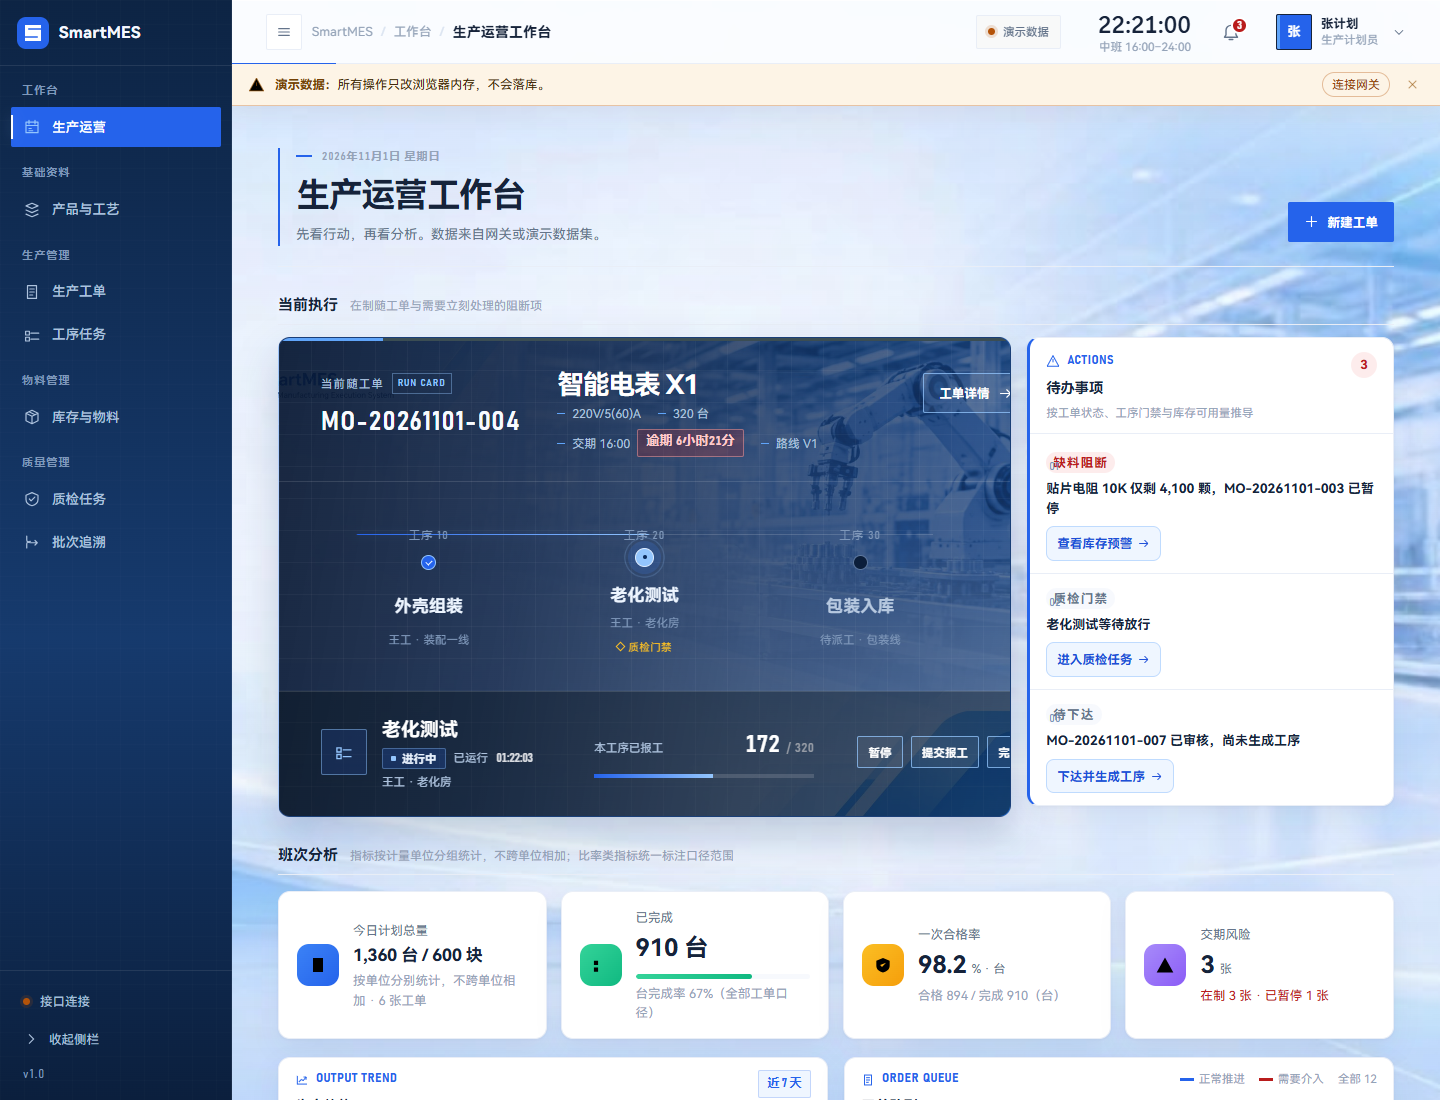
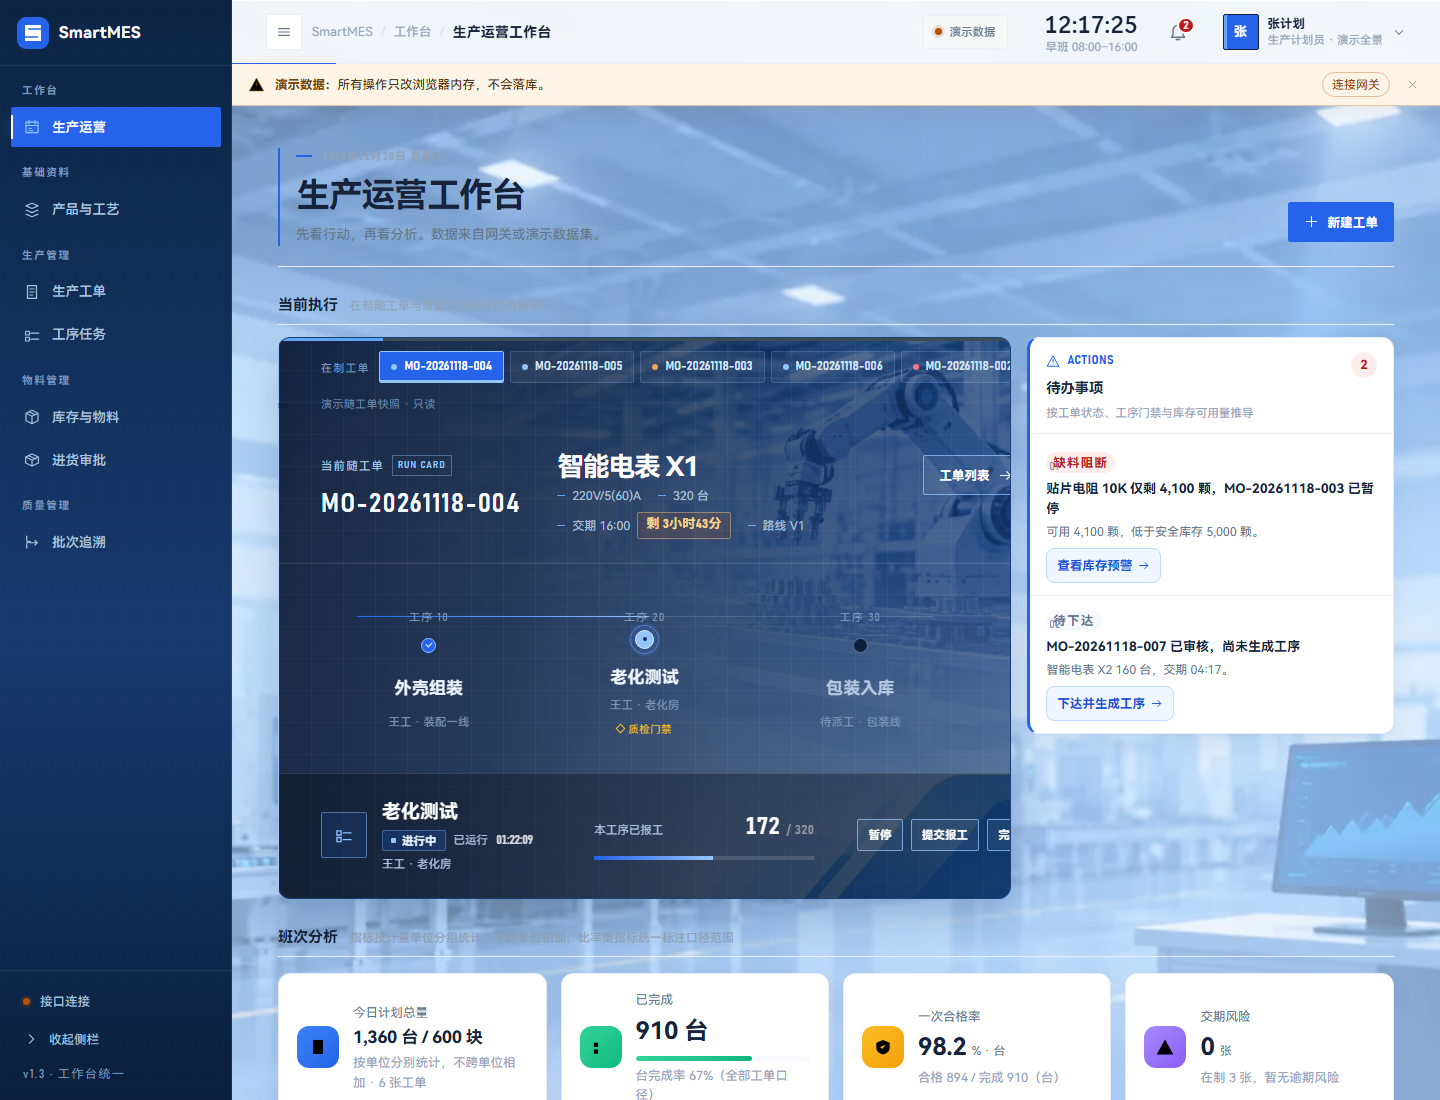
docs: 刷新工作台截图与 README 说明，补充部署工具
- 重拍 5 张工作台截图（生产运营 / 工单 / 库存 / 质检 / 追溯），与当前
  v1.3 界面一致；质检任务页改为质检员视角，体现「侧栏按角色收口」。
- README：补充终态工单仍可见、进货审批入口、路由表补 #/purchase，
  并按实际代码更新统计口径（171 用例、128 个生产文件、29 张表、102 个端点）。
- 部署：新增 restart-all.ps1（停 -> 构建 -> 起），make-static-zip.py 与
  上传说明随前端发布流程同步更新。

diff --git a/deploy/make-static-zip.py b/deploy/make-static-zip.py
@@ -1,18 +1,106 @@
+"""
+打包工作台前端静态文件，并自动给 index.html 里的脚本 / 样式引用加内容 hash 版本号。
+
+用法（在项目根目录执行）：
+    python deploy/make-static-zip.py
+输出：
+    smartmes-static-upload.zip   —— 上传到云端 OpenResty 静态目录解压覆盖即可
+
+为什么要这个脚本（踩过的坑）：
+    公网页面由云端 1Panel/OpenResty 的静态目录托管，本机 jar 只提供 API。
+    改完前端若只重打包 jar、或只手动改 index.html 的 ?v=，浏览器会用旧的
+    JS/CSS 缓存，表现为「代码明明改了、页面却不变」。
+    这里按文件内容算短 hash 作为 ?v=，并把 index.html 里所有
+    `./xxx.js?v=...` / `./xxx.css?v=...` 自动刷新，彻底免去手工改版本号。
+    CSS 也必须带版本号：侧栏按角色隐藏依赖 CSS 的 [hidden] 规则，
+    旧 CSS 缓存会让「无权限菜单依然显示」。
+"""
+import hashlib
 import os
+import re
+import shutil
+import sys
 import zipfile
 
-src = os.path.join('smart-gateway', 'src', 'main', 'resources', 'static')
-out = 'smartmes-static-demo.zip'
+ROOT = os.path.dirname(os.path.dirname(os.path.abspath(__file__)))
+SRC = os.path.join(ROOT, 'smart-gateway', 'src', 'main', 'resources', 'static')
+OUT = os.path.join(ROOT, 'smartmes-static-upload.zip')
+STAGING = os.path.join(ROOT, '.tmp', 'smartmes-static-upload')
+SKIP = {'.styles.backup-before-cleanup.css'}
 
-skip = {'.styles.backup-before-cleanup.css'}
-with zipfile.ZipFile(out, 'w', zipfile.ZIP_DEFLATED, compresslevel=9) as z:
-    for root, dirs, files in os.walk(src):
+# 需要带版本号破缓存的资源（相对 static 目录）
+VERSIONED = ['index.html']  # index 本身不进 ?v=（它就是入口），由 HTTP 头/强刷控制
+ASSETS = ['data.js', 'api.js', 'app.js', 'styles.css']
+
+
+def short_hash(path):
+    h = hashlib.sha256()
+    with open(path, 'rb') as f:
+        for chunk in iter(lambda: f.read(65536), b''):
+            h.update(chunk)
+    return h.hexdigest()[:10]
+
+
+def main():
+    if not os.path.isdir(SRC):
+        print('static dir not found:', SRC, file=sys.stderr)
+        return 1
+
+    # 1. 复制到暂存目录
+    if os.path.isdir(STAGING):
+        shutil.rmtree(STAGING)
+    os.makedirs(STAGING, exist_ok=True)
+    for root, _dirs, files in os.walk(SRC):
         for f in sorted(files):
             full = os.path.join(root, f)
-            rel = os.path.relpath(full, src).replace(os.sep, '/')
-            if rel in skip:
+            rel = os.path.relpath(full, SRC).replace(os.sep, '/')
+            if rel in SKIP:
                 continue
-            z.write(full, rel)
-            print(rel)
+            dst = os.path.join(STAGING, rel)
+            os.makedirs(os.path.dirname(dst), exist_ok=True)
+            shutil.copy2(full, dst)
 
-print('zip:', out, os.path.getsize(out), 'bytes')
+    # 2. 计算各资源 hash，按内容生成本次版本串
+    versions = {}
+    for name in ASSETS:
+        p = os.path.join(STAGING, name)
+        versions[name] = short_hash(p) if os.path.isfile(p) else 'missing'
+    bundle = hashlib.sha256(''.join(versions[a] for a in ASSETS).encode()).hexdigest()[:10]
+
+    # 3. 重写 index.html 里的 ?v=...（无论原来带不带版本号都能匹配）
+    index_path = os.path.join(STAGING, 'index.html')
+    with open(index_path, 'r', encoding='utf-8-sig') as f:
+        html = f.read()
+    for name in ASSETS:
+        # 匹配 ./data.js、./data.js?v=xxx 等
+        pattern = re.compile(r'(\./' + re.escape(name) + r')(\?v=[^"\']*)?')
+        html = pattern.sub(lambda m, n=name: m.group(1) + '?v=' + versions[n], html)
+    # 版本可见标记：左下角 rail-version，便于一眼确认浏览器加载的是不是新包
+    html = re.sub(r'(<span class="rail-version">)[^<]*(</span>)',
+                  lambda m: m.group(1) + 'v' + bundle + ' · 工作台' + m.group(2), html)
+    with open(index_path, 'w', encoding='utf-8') as f:
+        f.write(html)
+
+    # 4. 打包
+    if os.path.isfile(OUT):
+        os.remove(OUT)
+    with zipfile.ZipFile(OUT, 'w', zipfile.ZIP_DEFLATED, compresslevel=9) as z:
+        for root, _dirs, files in os.walk(STAGING):
+            for f in sorted(files):
+                full = os.path.join(root, f)
+                rel = os.path.relpath(full, STAGING).replace(os.sep, '/')
+                z.write(full, rel)
+                print(rel)
+
+    print('bundle   :', bundle)
+    for name in ASSETS:
+        print('  %-12s %s' % (name, versions[name]))
+    print('zip      :', OUT, os.path.getsize(OUT), 'bytes')
+    print('')
+    print('下一步：把 smartmes-static-upload.zip 上传到云端站点根目录解压覆盖，')
+    print('      浏览器 Ctrl+F5 强刷，看左下角版本标记是否为 v' + bundle + '。')
+    return 0
+
+
+if __name__ == '__main__':
+    raise SystemExit(main())

diff --git a/deploy/TODO-static-upload.md b/deploy/TODO-static-upload.md
@@ -1,22 +1,28 @@
-# 待办：更新服务器静态文件
+# 发布工作台前端静态文件（务必按这个流程）
 
-> **状态：待办（未执行）**
-> **触发时机：所有缺陷解决完之后，把文件一起替换**
-> 记录于 2026-11-12。当前服务器上的静态文件仍是旧版，本次前端改动只落在仓库与本机，尚未上传。
+> 公网 `8.148.212.158` 的页面由**云端 1Panel / OpenResty 的静态目录**直接托管，
+> 本机 jar 只提供 API（经 frp 隧道反代）。因此**改完前端后，重新打包 / 重启本机
+> 后端都不会让公网页面变化** —— 必须把静态包覆盖到云端目录。
+> 这条是反复出现「代码改了却看不到」的根因，务必按本文件执行。
 
-## 要传的文件
+## 一键打包（自动破缓存）
 
-`smartmes-static-demo.zip`（700 KB，位于 `deploy/` 下，由 `deploy/make-static-zip.py` 生成，已含本次改动）
+在项目根目录执行：
 
-包内 8 个文件，其中改动的是 `app.js` 与 `styles.css`：
-
+```powershell
+python deploy/make-static-zip.py
 ```
-index.html  app.js  api.js  data.js  styles.css  favicon.svg  assets/app-bg.png  assets/run-card.jpg
-```
 
-已校验包内 `app.js` 含 `switchTravelerOrder`、`styles.css` 含 `traveler-tabs`，确认是新版。
+脚本会：
+1. 把 `smart-gateway/src/main/resources/static/` 复制到临时目录；
+2. 按**文件内容**算 hash，把 `index.html` 里 `data.js / api.js / app.js / styles.css`
+   的 `?v=` 自动刷新（CSS 也带版本号，否则旧 CSS 会让「无权限侧栏依然显示」）；
+3. 把左下角版本标记改成 `v<hash> · 工作台`；
+4. 产出 **`smartmes-static-upload.zip`**（项目根目录）。
 
-## 更新步骤（1Panel 文件管理器）
+> 不要再手工改 `?v=2026xxxx` —— 容易漏改 CSS 或某个 JS，浏览器就会吃旧缓存。
+
+## 上传到云端
 
 1. 登录 1Panel → **文件管理**，进入站点根目录：
 
@@ -26,33 +32,43 @@ index.html  app.js  api.js  data.js  styles.css  favicon.svg  assets/app-bg.png 
 
    （若当初按文档用了替代路径 `/opt/1panel/apps/openresty/openresty/root/`，就进那个目录。）
 
-2. 上传 `smartmes-static-demo.zip`，**解压到当前目录**，覆盖同名文件
-   （重点是 `app.js`、`styles.css`；其它文件覆盖也无影响）。
+2. 上传 `smartmes-static-upload.zip`，**解压到当前目录**，覆盖同名文件。
 
-3. 确认目录里 `app.js` 的修改时间已变成刚才，或直接用下面命令核对（SSH 里执行）：
+3. 核对（SSH）：
 
    ```bash
    ROOT=/opt/1panel/apps/openresty/openresty/www/sites/smart-mes/index
    ls -la "$ROOT"
-   grep -c "switchTravelerOrder" "$ROOT/app.js"     # 应输出 >= 1
-   grep -c "traveler-tabs" "$ROOT/styles.css"        # 应输出 >= 1
+   grep -o "app.js?v=[a-f0-9]*" "$ROOT/index.html"       # 版本号应为本次 hash
+   grep -c "travelerState" "$ROOT/app.js"                 # >=1（工作台组件）
+   grep -c "rail-nav a\[hidden\]" "$ROOT/styles.css"      # >=1（侧栏隐藏兜底）
    ```
 
-4. **不用重启 OpenResty、不用 reload** —— 静态文件即时生效。
-   用户端按 `Ctrl+F5` 强制刷新一次即可（避免浏览器缓存旧 `app.js`）。
+4. **不用重启 OpenResty、不用 reload**，静态文件即时生效。
+   浏览器 **Ctrl+F5** 强刷；看左下角版本标记是否变成新 hash。
 
-5. 本机后端和 frp 隧道**都不用动**：这次只改了前端静态资源，没有动任何 jar 或 API。
+5. 本机后端 / frp 隧道都不用动（除非本次也改了后端接口）。
 
-## 两点提醒
+## 为什么要带版本号（缓存坑）
 
-- 若刷新后仍是旧界面，多半是浏览器缓存：开无痕窗口验证一次，
-  或在 1Panel 里给静态资源加 `Cache-Control: no-cache`（只影响开发期，可选）。
-- 之前同步过的 `target/classes/static` 是**本机直连 9000 调试**用的那份，
-  跟服务器上的静态文件是两套；服务器只看上传的 zip。
+OpenResty 对静态文件用 ETag / Last-Modified 协商缓存，浏览器会缓存 JS/CSS。
+`index.html` 刷新到新版、但 `app.js` 仍是旧缓存时，会出现：
+- 侧栏「进货审批」入口在（新 index），但菜单不裁剪、点了打不开（旧 app.js 无 purchase 路由）；
+- 旧 CSS 缺 `[hidden]` 规则时，`.rail-nav a { display:flex }` 会盖掉 JS 设的 `hidden`，
+  导致所有角色都看到全部菜单。
 
-## 前置条件
+内容 hash 版本号 + 前端 `updateNavigation` 内联 `style.display` 双保险解决这两点。
 
-- [ ] 所有缺陷已解决
-- [ ] 前端改动已重新跑 `make-static-zip.py`，zip 为最终版
-- [ ] 已确认服务器上站点根目录的实际路径
-- [ ] 执行后按上面第 3 步核对，并强制刷新一次页面
+## 本机直连调试（可选）
+
+`http://127.0.0.1:9000/` 会加载**本机 jar 内**的静态资源。
+若要在本机也看到最新前端，需 `mvn -o -s .mvn/settings.xml clean package -DskipTests`
+重新打 jar 并重启网关 —— 但这**不影响公网页面**，公网只认云端目录。
+
+## 检查清单
+
+- [ ] 前端改动已完成
+- [ ] 执行 `python deploy/make-static-zip.py`，zip 为最终版
+- [ ] 已确认云端站点根目录的实际路径
+- [ ] 上传解压覆盖，按上面第 3 步核对版本号与关键字
+- [ ] Ctrl+F5 强刷，左下角版本标记为新 hash
